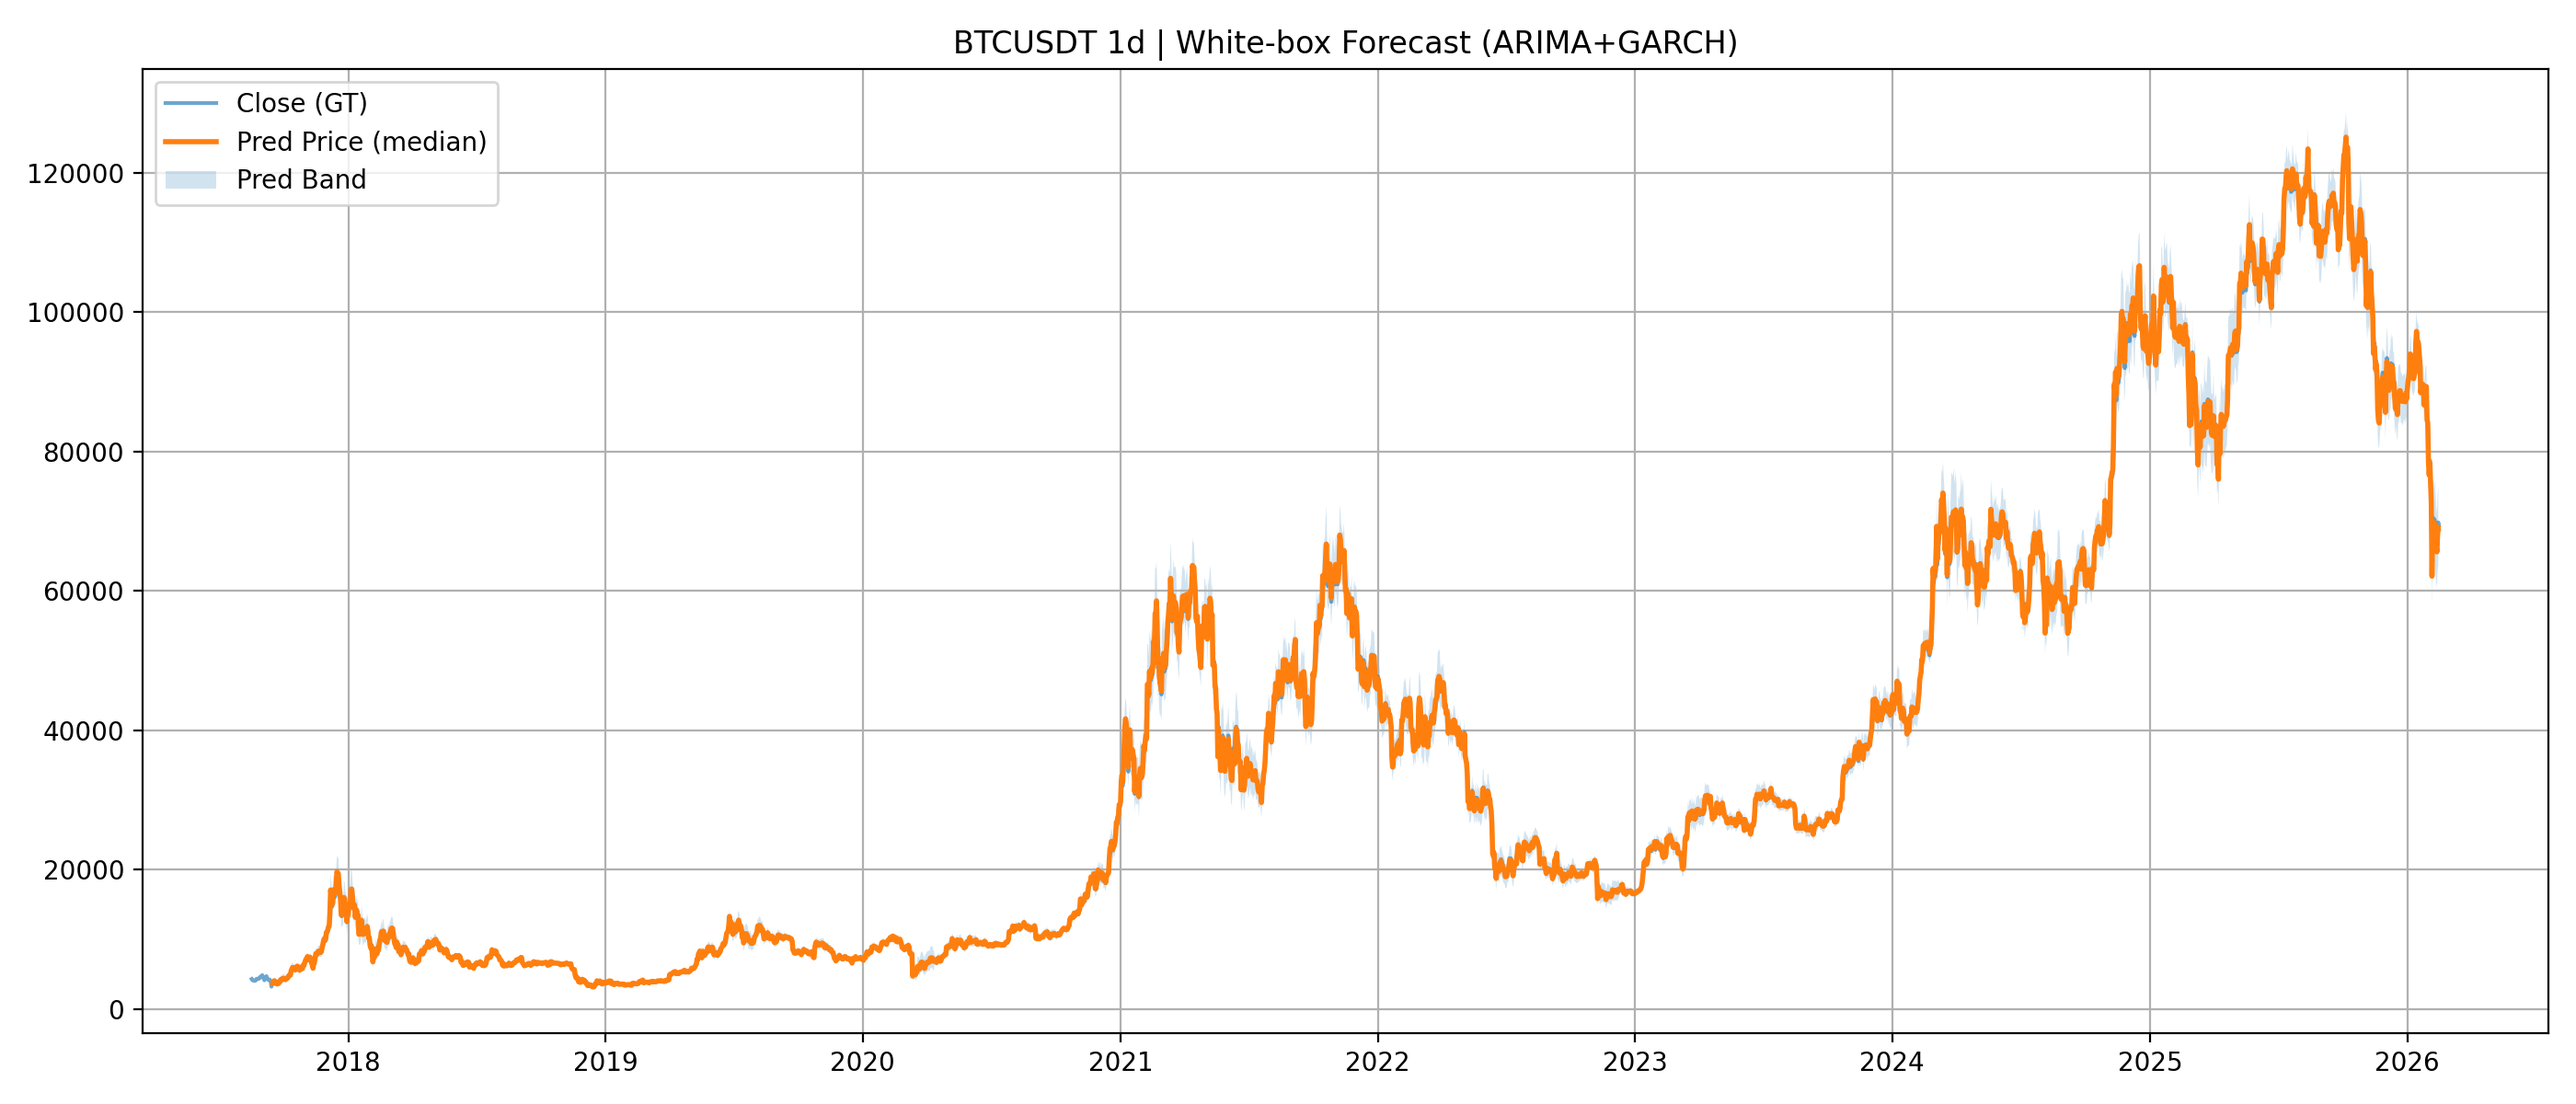
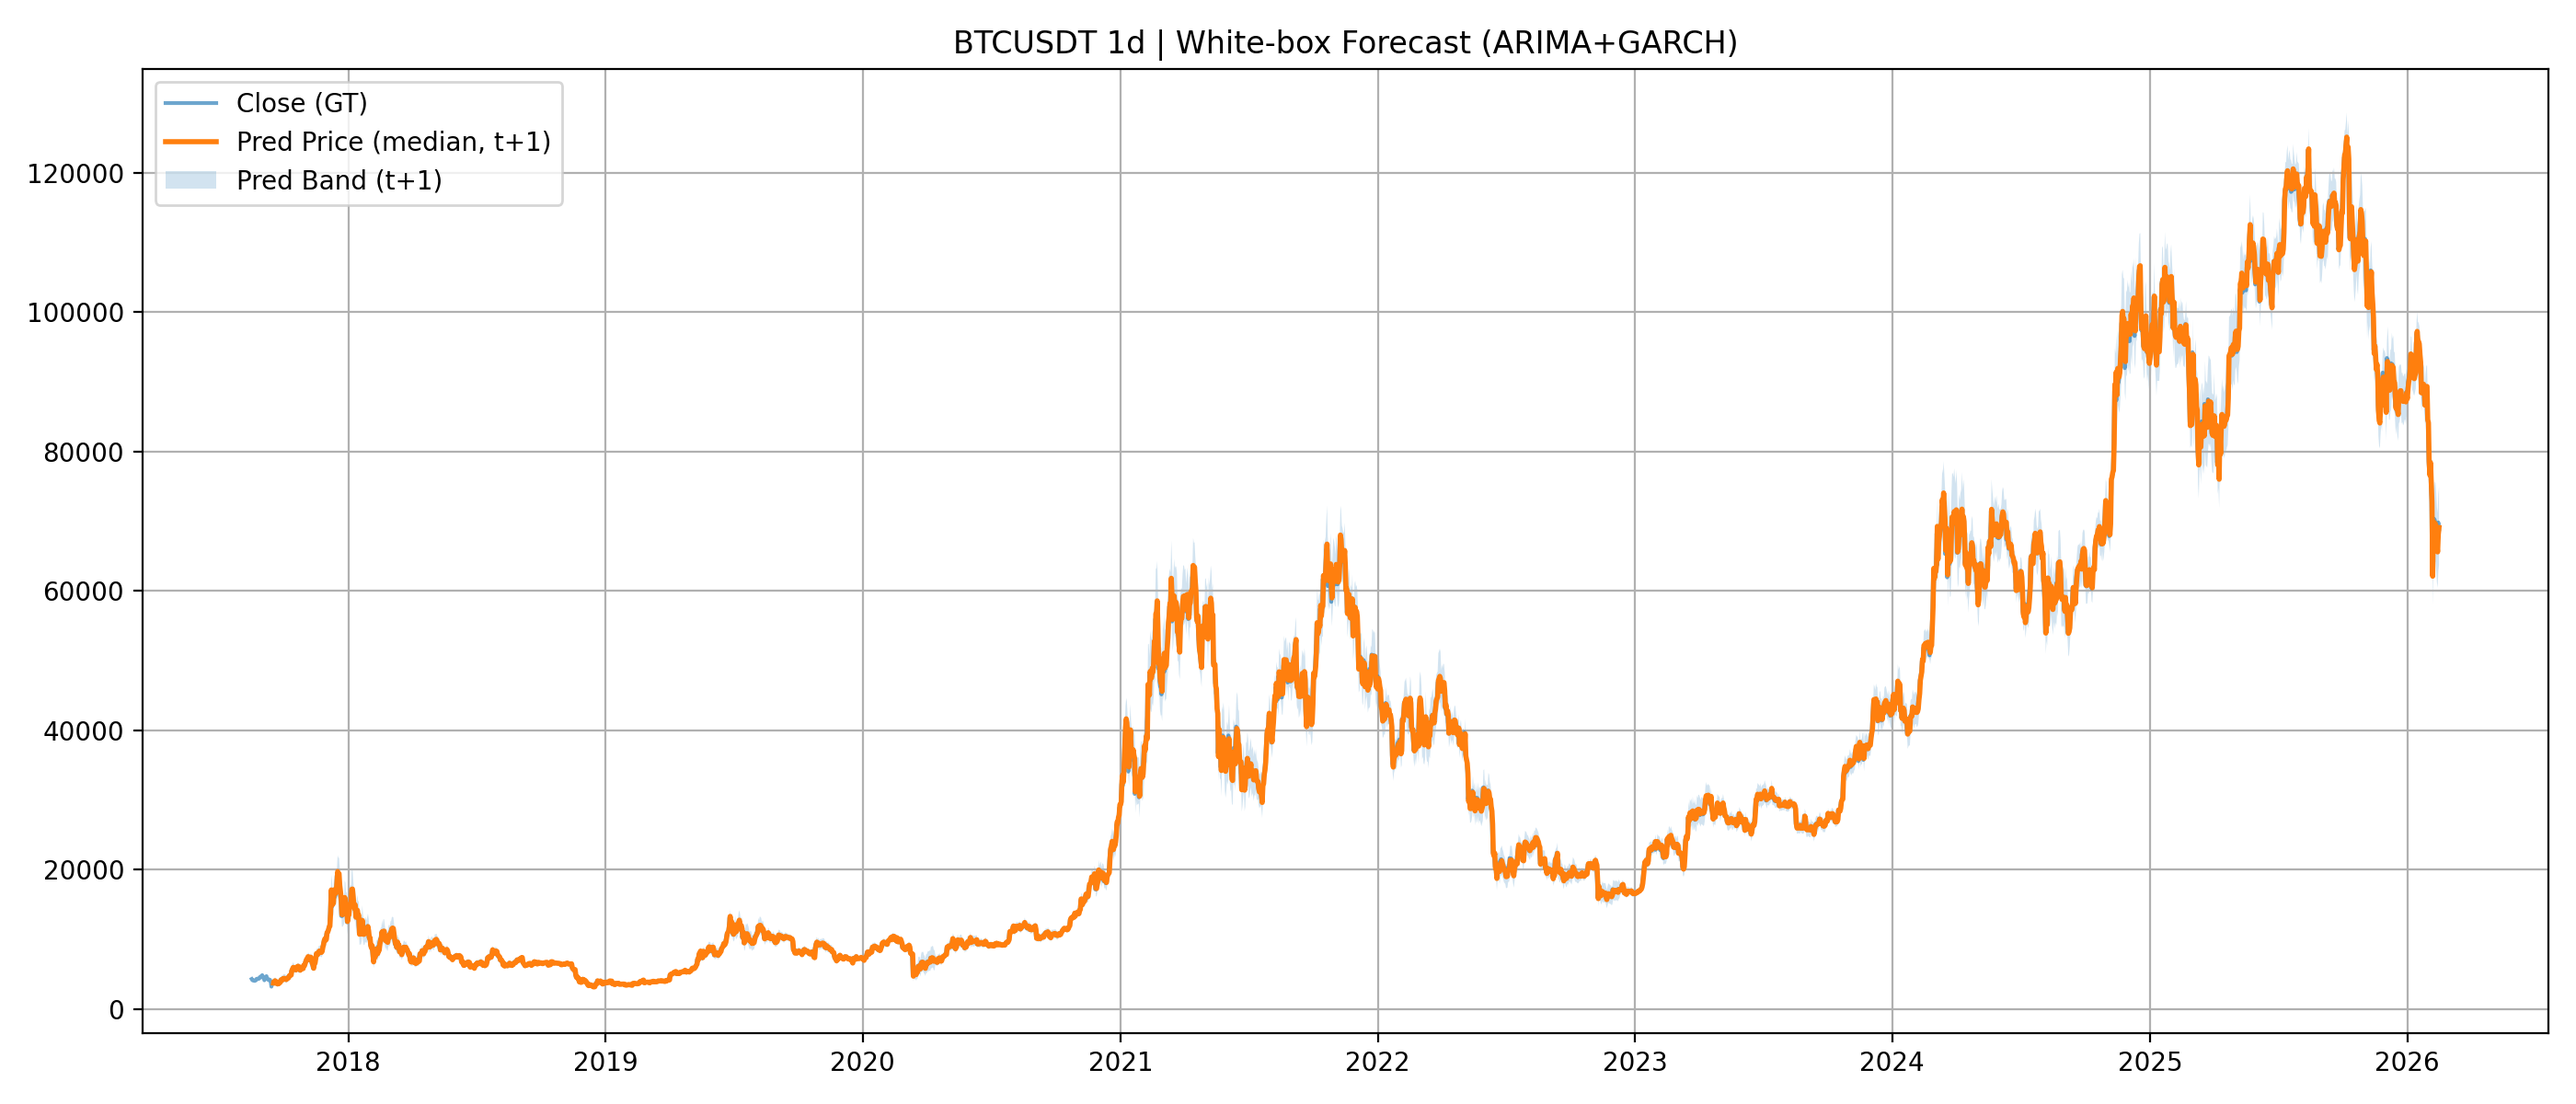
fix: data leakage in visulization

diff --git a/utils/visual.py b/utils/visual.py
@@ -12,7 +12,7 @@ def plot_forecast_layer(
     out_path: str | None = None,
 ) -> None:
     """
-    Visualize close price against forecast projection at decision times.
+    Visualize close price against forecast projection.
     Expected columns in forecast_df: ts, close_t, and either price_pred_median
     or mu_pred (which will be mapped to price projection).
     Optional columns: price_pred_lo, price_pred_hi
@@ -25,23 +25,34 @@ def plot_forecast_layer(
     if "price_pred_median" not in df.columns:
         if "mu_pred" not in df.columns:
             raise ValueError("forecast_df requires price_pred_median or mu_pred")
-        
-        # close ground-truth at decision time t
         df["close_t"] = close.reindex(df.index).astype(float)
-
-        # ATTENTION: 
-        # Using the predicted return rate in conjunction with the true value of the previous close to reconstruct a predicted close value for the next moment presents a problem: 
-        # when the return rate is very small, the model's close will be too tight, making the overall prediction appear very accurate.
         df["price_pred_median"] = df["close_t"] * np.exp(df["mu_pred"].astype(float))
+
+    # Align predicted prices to target timestamp (t+1), not decision timestamp (t).
+    if "pred_for_ts" in df.columns:
+        pred_x = pd.to_datetime(df["pred_for_ts"], utc=True, errors="coerce")
+    else:
+        # Fallback: infer t+1 by shifting along the close index.
+        pos = close.index.get_indexer(df.index)
+        next_pos = pos + 1
+        valid_shift = (pos >= 0) & (next_pos < len(close.index))
+        pred_x = pd.Series(pd.NaT, index=df.index, dtype="datetime64[ns, UTC]")
+        pred_x.loc[valid_shift] = close.index[next_pos[valid_shift]]
+    valid_pred = pred_x.notna()
 
     plt.figure(figsize=(14, 6))
     plt.plot(close.index, close.values, label="Close (GT)", alpha=0.65)
-    plt.plot(df.index, df["price_pred_median"].values, label="Pred Price (median)", linewidth=2)
+    plt.plot(
+        pred_x[valid_pred],
+        df.loc[valid_pred, "price_pred_median"].values,
+        label="Pred Price (median, t+1)",
+        linewidth=2,
+    )
 
     if "price_pred_lo" in df.columns and "price_pred_hi" in df.columns:
-        lo = df["price_pred_lo"].astype(float)
-        hi = df["price_pred_hi"].astype(float)
-        plt.fill_between(df.index, lo, hi, alpha=0.2, label="Pred Band")
+        lo = df.loc[valid_pred, "price_pred_lo"].astype(float)
+        hi = df.loc[valid_pred, "price_pred_hi"].astype(float)
+        plt.fill_between(pred_x[valid_pred], lo, hi, alpha=0.2, label="Pred Band (t+1)")
 
     plt.title(title)
     plt.grid(True)
@@ -57,6 +68,7 @@ def plot_return_target_layer(
     forecast_df: pd.DataFrame,
     title: str = "Return Forecast vs Next Return (GT)",
     out_path: str | None = None,
+    z_score: float = 1.96,
 ) -> None:
     """
     Compare model target directly:
@@ -74,16 +86,46 @@ def plot_return_target_layer(
 
     pred = df[pred_col].astype(float)
     real_next = returns.shift(-1).reindex(df.index).astype(float)
-    valid = pred.notna() & real_next.notna()
+
+    # Align to target timestamp (t+1). Fallback to +1 bar inference if pred_for_ts is absent.
+    if "pred_for_ts" in df.columns:
+        target_x = pd.to_datetime(df["pred_for_ts"], utc=True, errors="coerce")
+    else:
+        pos = returns.index.get_indexer(df.index)
+        next_pos = pos + 1
+        valid_shift = (pos >= 0) & (next_pos < len(returns.index))
+        target_x = pd.Series(pd.NaT, index=df.index, dtype="datetime64[ns, UTC]")
+        target_x.loc[valid_shift] = returns.index[next_pos[valid_shift]]
+
+    # Return prediction band from white-box GARCH output
+    if "ret_pred_lo" in df.columns and "ret_pred_hi" in df.columns:
+        band_lo = df["ret_pred_lo"].astype(float)
+        band_hi = df["ret_pred_hi"].astype(float)
+    elif "mu_pred" in df.columns and "sigma_pred" in df.columns:
+        mu = df["mu_pred"].astype(float)
+        sigma = df["sigma_pred"].astype(float)
+        band_lo = mu - float(z_score) * sigma
+        band_hi = mu + float(z_score) * sigma
+    else:
+        band_lo = None
+        band_hi = None
+
+    valid = pred.notna() & real_next.notna() & target_x.notna()
     pred = pred[valid]
     real_next = real_next[valid]
+    target_x = target_x[valid]
+    if band_lo is not None and band_hi is not None:
+        band_lo = band_lo[valid]
+        band_hi = band_hi[valid]
 
     fig = plt.figure(figsize=(15, 9))
     ax1 = plt.subplot(2, 1, 1)
     ax2 = plt.subplot(2, 1, 2)
 
-    ax1.plot(pred.index, pred.values, label=f"Pred Next Return ({pred_col})", linewidth=1.8, alpha=0.9)
-    ax1.plot(real_next.index, real_next.values, label="Real Next Return (GT)", linewidth=1.4, alpha=0.75)
+    ax1.plot(target_x, pred.values, label=f"Pred Next Return ({pred_col})", linewidth=1.8, alpha=0.9)
+    ax1.plot(target_x, real_next.values, label="Real Next Return (GT)", linewidth=1.4, alpha=0.75)
+    if band_lo is not None and band_hi is not None:
+        ax1.fill_between(target_x, band_lo.values, band_hi.values, alpha=0.18, label=f"Pred Band (+/-{z_score:.2f}sigma)")
     ax1.set_title(title)
     ax1.grid(True)
     ax1.legend()
@@ -91,7 +133,7 @@ def plot_return_target_layer(
     ax2.scatter(pred.values, real_next.values, s=14, alpha=0.55, label="points")
     lo = float(min(pred.min(), real_next.min()))
     hi = float(max(pred.max(), real_next.max()))
-    ax2.plot([lo, hi], [lo, hi], linestyle="--", linewidth=1.4, label="45° line")
+    ax2.plot([lo, hi], [lo, hi], linestyle="--", linewidth=1.4, label="45-degree line")
     ax2.set_xlabel("Predicted next return")
     ax2.set_ylabel("Real next return")
     ax2.grid(True)

diff --git a/experiments/runners.py b/experiments/runners.py
@@ -22,11 +22,11 @@ def evaluate_forecast_frame(
     metrics_out_path: str,
     rows_out_path: str | None = None,
 ) -> dict:
-    df = forecast_df.copy()
+    df = forecast_df.copy() # pred_for_ts
     if "ts" in df.columns:
         df = df.set_index("ts").sort_index()
 
-    y_true = make_next_return_target(returns=returns, decision_index=df.index) # returns at decision times
+    y_true = make_next_return_target(returns=returns, decision_index=df.index) # next-bar return at decision times
     df = df.reindex(y_true.index)
 
     quantile_preds = {}
@@ -35,7 +35,7 @@ def evaluate_forecast_frame(
             quantile_preds[q] = df[col]
 
     mu = df["mu_pred"] if "mu_pred" in df.columns else None
-    metrics = compute_forecast_metrics(y_true=y_true, mu_pred=mu, quantile_preds=quantile_preds or None)
+    metrics = compute_forecast_metrics(y_true=y_true, mu_pred=mu, quantile_preds=quantile_preds or None) # y_true -- r_next vs.  "pred_for_ts" mu_pred
     save_metrics(metrics, metrics_out_path)
 
     if rows_out_path:
@@ -66,11 +66,11 @@ def run_strategy_backtest(
     if "ts" in df.columns:
         df = df.set_index("ts").sort_index()
 
-    df = attach_native_fields(df)
+    df = attach_native_fields(df) # [ts, pred_for_ts, mu_pred, sigma_pred, native_risk...], the "native_risk" are binding to "pred_for_ts", default to "sigma_pred"
     idx = df.index.intersection(close.index)
     df = df.reindex(idx)
 
-    native_risk = df["native_risk"].ffill().bfill()
+    native_risk = df["native_risk"].ffill().bfill() # index is decision tims -- ts.
     if use_hawkes:
         risk = apply_hawkes_risk_scaling(native_risk=native_risk, lam=lam.reindex(idx), alpha_risk=alpha_risk)
     else:

diff --git a/experiments/exp1_forecast_eval.py b/experiments/exp1_forecast_eval.py
@@ -37,7 +37,7 @@ def run_exp1_forecast_eval(
     df = load_kline_csv(data_cfg.csv_path)
     df = align_features(df)
     close = df["close"].astype(float)
-    returns = compute_log_return(close)
+    returns = compute_log_return(close) # decision-time bar Increase/decrease rate, r_t = log(close_t) - log(close_{t-1}), on the t.
     df_train, df_val, df_test = time_split_df(df, ratios=(0.7, 0.1, 0.2))
     meta = parse_market_from_csv_path(
         csv_path=data_cfg.csv_path,
@@ -47,14 +47,14 @@ def run_exp1_forecast_eval(
     mk = meta["key"]
     mt = meta["title_label"]
 
-    white = WhiteBoxForecaster(cfg=wb_cfg).forecast_frame(close=close, returns=returns, symbol=data_cfg.symbol)
+    white = WhiteBoxForecaster(cfg=wb_cfg).forecast_frame(close=close, returns=returns, symbol=data_cfg.symbol) # pred_for_ts for the next step return, but stored at t. -- decision time
     white_idx = white.set_index("ts").index
     idx_train = white_idx[white_idx <= df_train.index[-1]]
     idx_val = white_idx[(white_idx > df_train.index[-1]) & (white_idx <= df_val.index[-1])]
     idx_test = white_idx[white_idx > df_val.index[-1]]
 
     white_metrics_all = evaluate_forecast_frame(
-        forecast_df=white,
+        forecast_df=white, # pred_for_ts
         returns=returns,
         metrics_out_path=f"{out_cfg.table_dir}/exp1_whitebox_forecast_metrics_all_{mk}.json",
         rows_out_path=f"{out_cfg.table_dir}/exp1_whitebox_forecast_rows_all_{mk}.csv",

diff --git a/models/whitebox/arima_garch_adapter.py b/models/whitebox/arima_garch_adapter.py
@@ -22,19 +22,19 @@ class WhiteBoxForecaster:
         self.model = ArimaGarchModel(arima_order=cfg.arima_order, garch_pq=cfg.garch_pq)
 
     def forecast_frame(self, close: pd.Series, returns: pd.Series, symbol: str, horizon: int = 1) -> pd.DataFrame:
-        pred = self.model.rolling_forecast(returns, window=self.cfg.rolling_window)
+        pred = self.model.rolling_forecast(returns, window=self.cfg.rolling_window) # "pred_for_ts" is the timestamp of the next step forecasting for, but it is stored at the current step t.
 
-        df = pred.rename(columns={"mu": "mu_pred", "sigma": "sigma_pred"}).copy()
-        df.index.name = "ts"
+        df = pred.rename(columns={"mu": "mu_pred", "sigma": "sigma_pred"}).copy() # pred index is "ts", decision time. 
+        df.index.name = "ts" # make sure index is named "ts" for downstream processing
         df["symbol"] = symbol
         df["horizon"] = int(horizon)
 
-        # ground-truth close at decision time t
+        # ground-truth close at decision time, ts
         df["close_t"] = close.reindex(df.index).astype(float)
 
         z = float(self.cfg.z_score)
 
-        # return-space band
+        # return-space band, for next step, aligned with the return target at "pred_for_ts" but at decision time ts
         df["ret_pred_lo"] = df["mu_pred"] - z * df["sigma_pred"]
         df["ret_pred_hi"] = df["mu_pred"] + z * df["sigma_pred"]
 

diff --git a/models/whitebox/arima_garch_core.py b/models/whitebox/arima_garch_core.py
@@ -133,7 +133,7 @@ class ArimaGarchModel:
         - the first return (at t0) is kept as 0.0 (not NaN)
 
         At decision time i:
-        - we fit on returns[i-window+1 : i] (inclusive of r_i)
+        - we fit on returns[i-window : i] (inclusive of r_i)
         - we forecast next-step return r_{i+1}
         - we store forecast at timestamp t_i (because you act at i for i+1)
 
@@ -151,7 +151,7 @@ class ArimaGarchModel:
         out = []
         # i is the decision-time index; we need i+1 to exist, so i <= len(r)-2
         for i in range(window, len(r) - 1):
-            hist = r.iloc[i - window : i + 1]  # includes r_i
+            hist = r.iloc[i - window : i + 1]  # includes r_i -- the return on time i
             ts_decision = r.index[i]
             ts_pred_for = r.index[i + 1]
 
@@ -167,7 +167,7 @@ class ArimaGarchModel:
 
             out.append((ts_decision, mu, sigma, ts_pred_for))
 
-        df = pd.DataFrame(out, columns=["ts", "mu", "sigma", "pred_for_ts"]).set_index("ts")
+        df = pd.DataFrame(out, columns=["ts", "mu", "sigma", "pred_for_ts"]).set_index("ts") # "mu", "sigma" are forecasts for the next step return at ts_pred_for, but stored at ts because that's the decision time
 
         # Optional helpers: annualized versions (useful for paper plots)
         if self.annualization_factor is not None:

diff --git a/experiments/exp2_hawkes_ablation.py b/experiments/exp2_hawkes_ablation.py
@@ -80,10 +80,11 @@ def run_exp2_hawkes_ablation(
 
     df_train, df_val, df_test = time_split_df(df, ratios=(0.7, 0.1, 0.2))
 
-    white = WhiteBoxForecaster(cfg=wb_cfg).forecast_frame(close=close, returns=returns, symbol=data_cfg.symbol)
+    # close/returns/white, they share the same decision time index, ts.
+    white = WhiteBoxForecaster(cfg=wb_cfg).forecast_frame(close=close, returns=returns, symbol=data_cfg.symbol) # pred_for_ts for the next step return, but stored at t. -- decision time
     white = white.set_index("ts").sort_index()
 
-    idx_all = white.index
+    idx_all = white.index # decision time index of the forecast frame.
     idx_train = idx_all[idx_all <= df_train.index[-1]]
     idx_val = idx_all[(idx_all > df_train.index[-1]) & (idx_all <= df_val.index[-1])]
     idx_test = idx_all[idx_all > df_val.index[-1]]

diff --git a/main.py b/main.py
@@ -65,9 +65,9 @@ def main() -> None:
     Path(out_cfg.table_dir).mkdir(parents=True, exist_ok=True)
     Path(out_cfg.figure_dir).mkdir(parents=True, exist_ok=True)
 
-    print("[RUN] Experiment 1: Forecast evaluation")
-    exp1 = run_exp1_forecast_eval(data_cfg=data_cfg, wb_cfg=wb_cfg, out_cfg=out_cfg, ext_cfg=ext_cfg)
-    print(exp1)
+    # print("[RUN] Experiment 1: Forecast evaluation")
+    # exp1 = run_exp1_forecast_eval(data_cfg=data_cfg, wb_cfg=wb_cfg, out_cfg=out_cfg, ext_cfg=ext_cfg)
+    # print(exp1)
 
     print("[RUN] Experiment 2: Hawkes ablation backtest")
     exp2 = run_exp2_hawkes_ablation(

diff --git a/risk/hawkes_scaler.py b/risk/hawkes_scaler.py
@@ -4,6 +4,9 @@ import pandas as pd
 
 
 def apply_hawkes_risk_scaling(native_risk: pd.Series, lam: pd.Series, alpha_risk: float) -> pd.Series:
-    native = native_risk.astype(float)
+    native = native_risk.astype(float) # ts, sigma_pred binded to pred_for_ts
     lam_aligned = lam.reindex(native.index).fillna(0.0).astype(float)
+
+    # ts lam, which means the return in ts has been revealed
+    # So use ts lam to scale t+1 risk(pred_for_ts's sigma_pred)
     return native * (1.0 + float(alpha_risk) * lam_aligned)

diff --git a/README.md b/README.md
@@ -170,6 +170,7 @@ Relevant figure:
 Example:
 
 ![White-box close reconstruction](reports/figures/exp1_whitebox_forecast_BTCUSDT_1d.png)
+![White-box close reconstruction details](reports/figures/showcase_1.png)
 
 The white-box model predicts next-bar return, then reconstructs next-bar price from current observed close:
 - `pred_price_next = close_t * exp(pred_return)`
